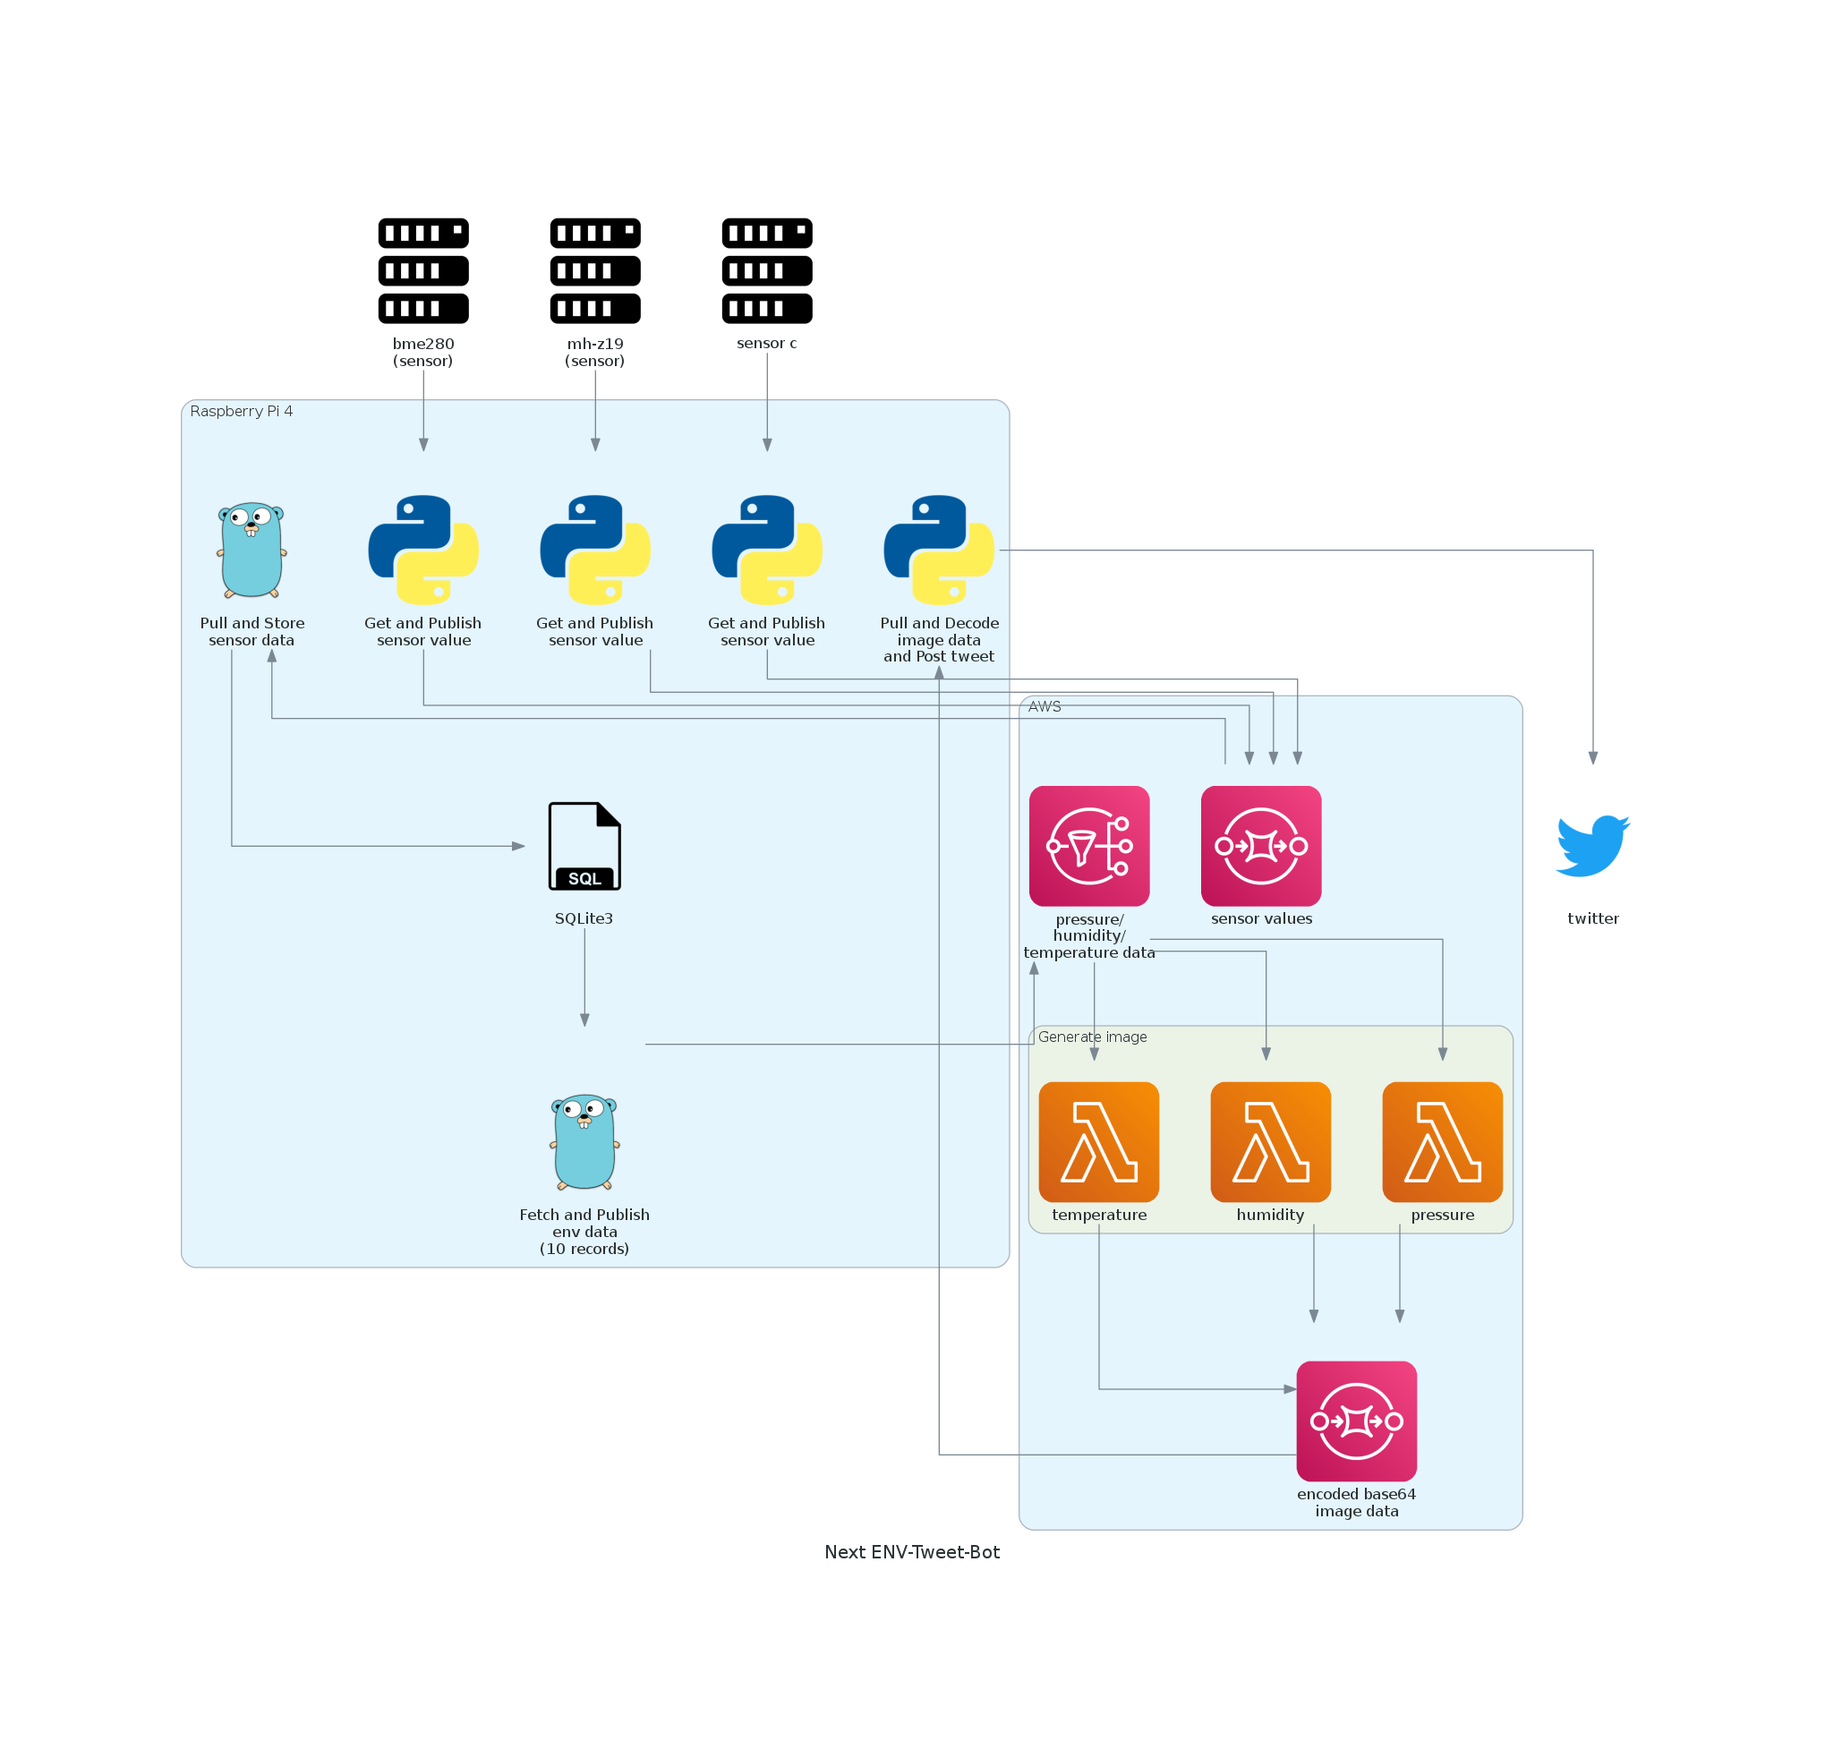
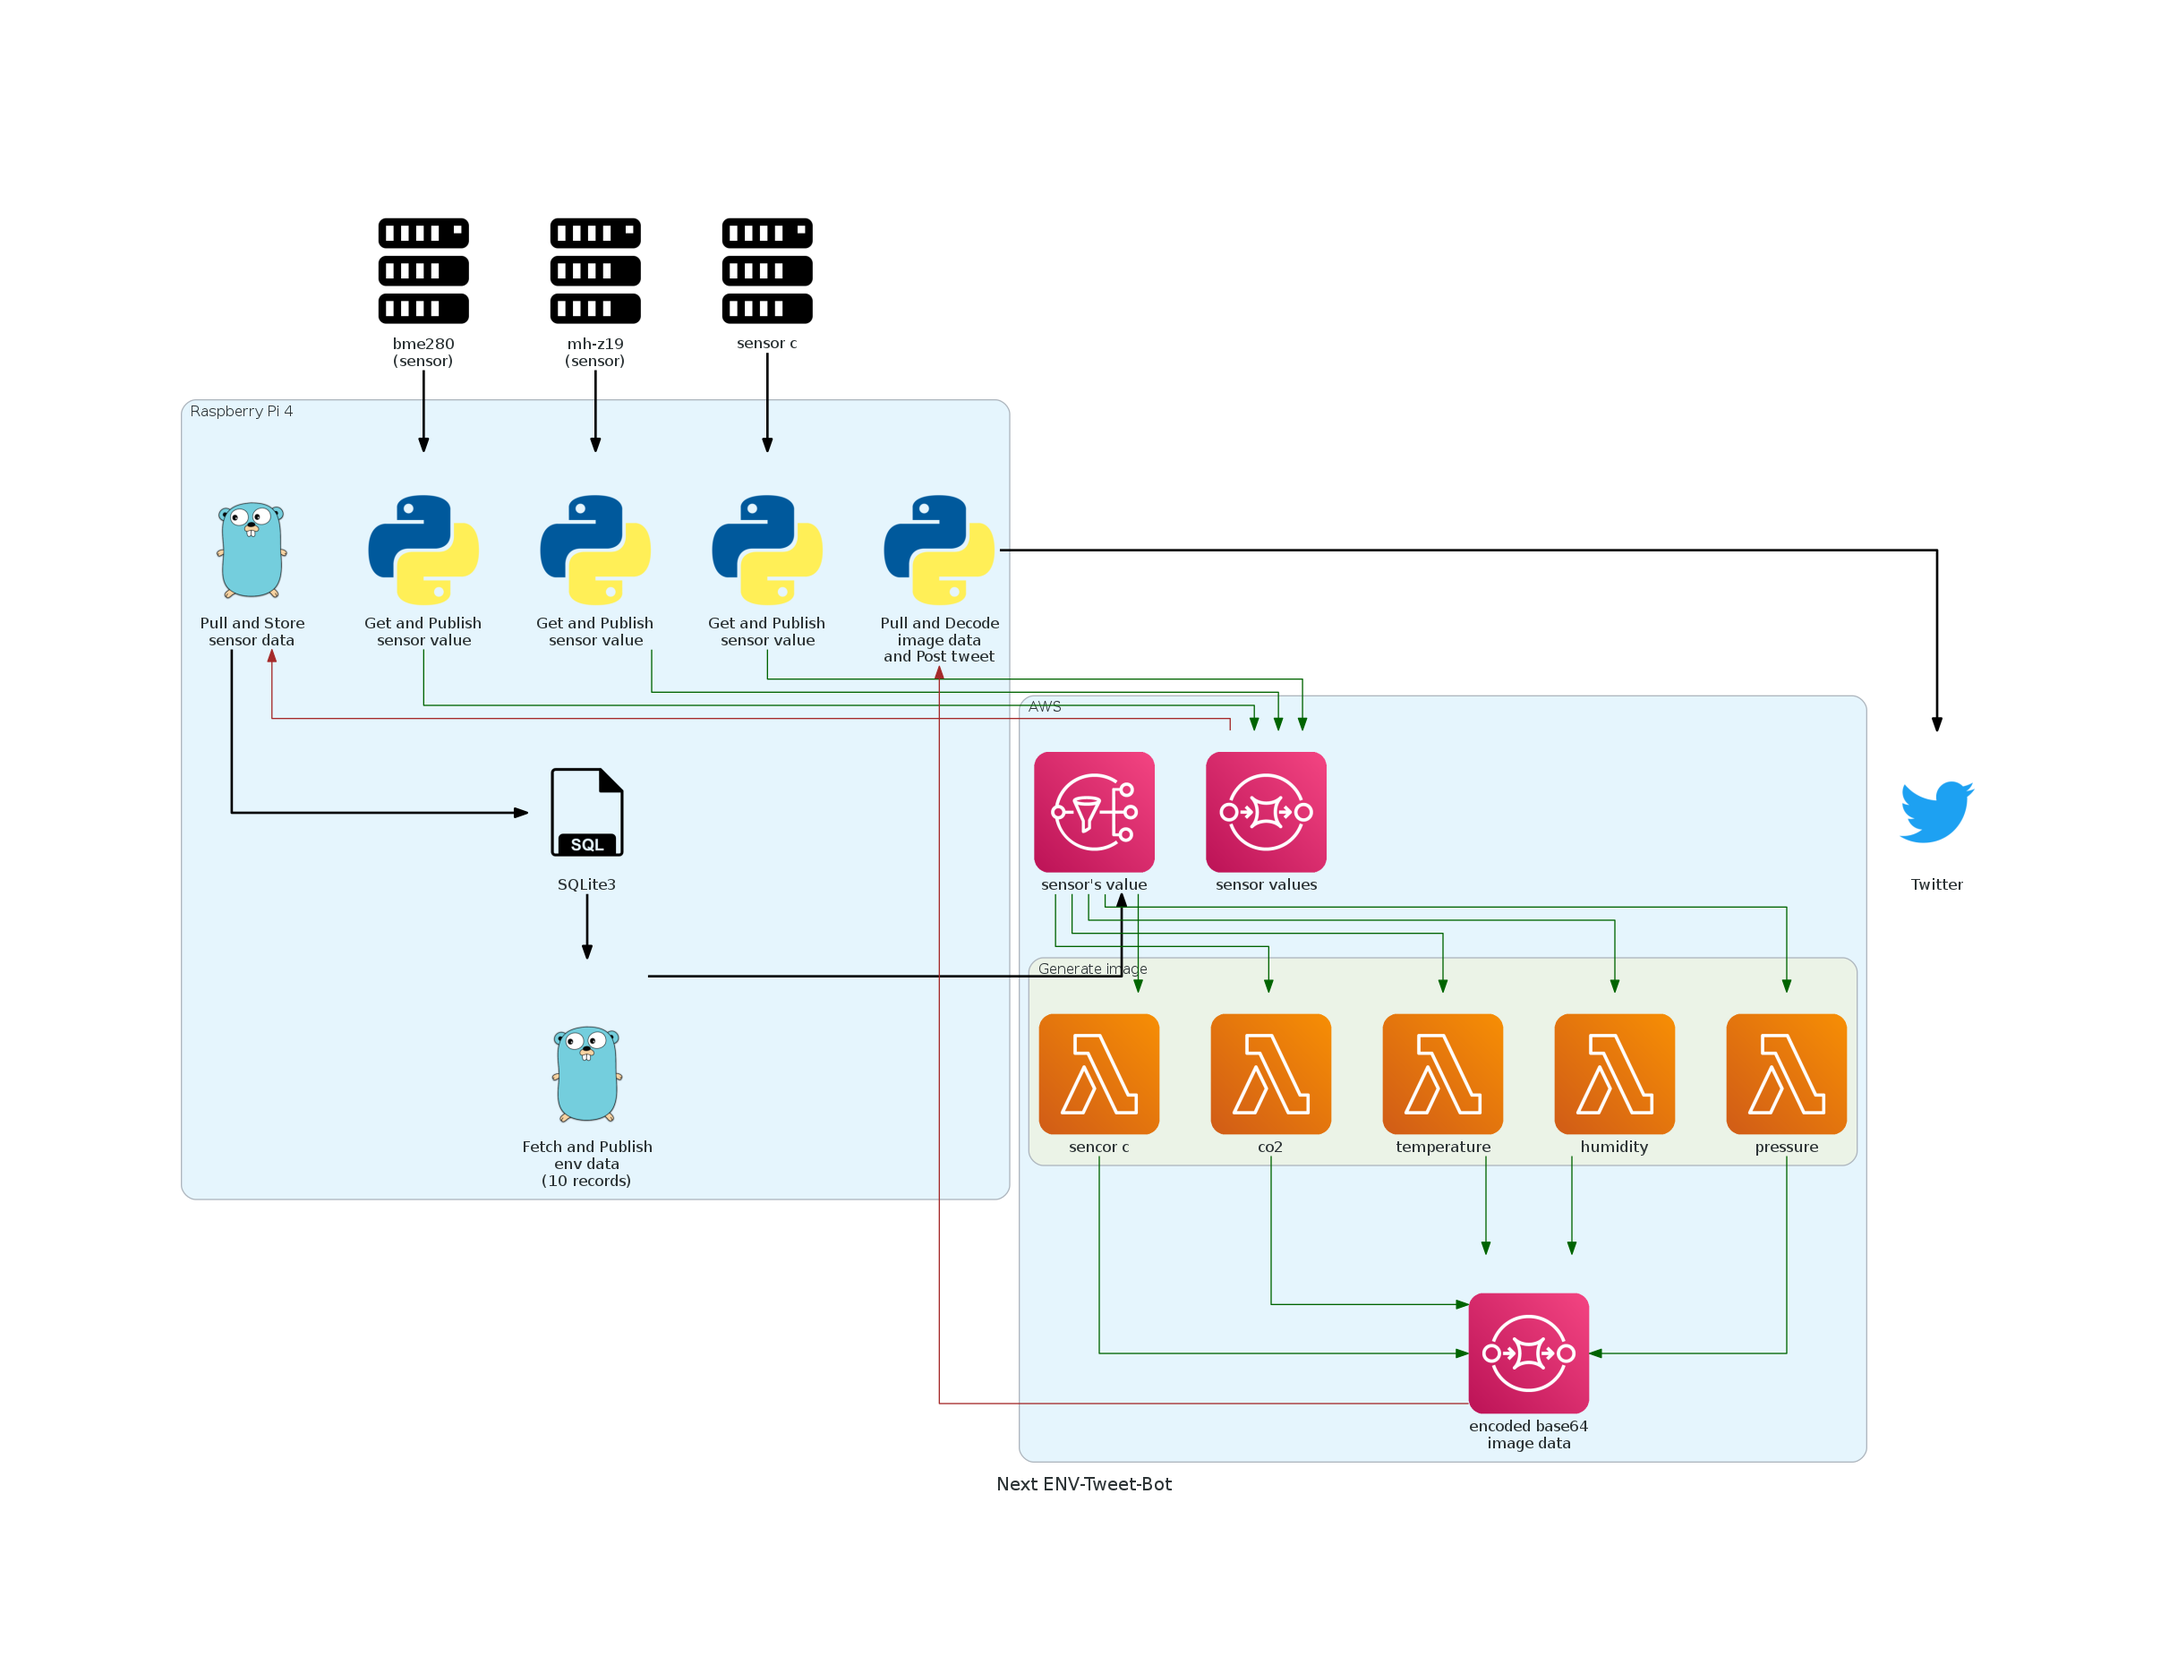
update doc

Changed region(s): [[0.0618, 0.1241, 0.9269, 0.8999], [0.2472, 0.4655, 0.3399, 0.5586], [0.8651, 0.3103, 0.896, 0.3414]]

diff --git a/env-bot/doc/diagram_next.py b/env-bot/doc/diagram_next.py
@@ -1,4 +1,4 @@
-from diagrams import Cluster, Diagram
+from diagrams import Cluster, Diagram, Edge
 
 from diagrams.programming.language import Python, Go
 from diagrams.onprem.compute import Server
@@ -11,7 +11,11 @@ with Diagram("Next ENV-Tweet-Bot", direction="TB", show=False, outformat="png"):
   bme280 = Server("bme280\n(sensor)")
   mh_z19 = Server("mh-z19\n(sensor)")
   sensor_c = Server("sensor c")
-  
+
+  green_edge = Edge(color="darkgreen")
+  brown_edge = Edge(color="brown")
+  black_edge = Edge(color="black", style="bold")
+
   with Cluster("Raspberry Pi 4"):
     prog_a = Python("Get and Publish\nsensor value")
     prog_b = Python("Get and Publish\nsensor value")
@@ -23,22 +27,24 @@ with Diagram("Next ENV-Tweet-Bot", direction="TB", show=False, outformat="png"):
 
   with Cluster("AWS"):
     sqs0 = SQS("sensor values")
-    sns = SNS("pressure/\nhumidity/\ntemperature data")
+    sns = SNS("sensor values")
 
     with Cluster("Generate image"):
       svc_group = [Lambda("pressure"),
                   Lambda("humidity"),
-                  Lambda("temperature")]
+                  Lambda("temperature"),
+                  Lambda("co2"),
+                  Lambda("sencor c")]
 
     sqs1 = SQS("encoded base64\nimage data")
 
-  twitter = Twitter("twitter")
+  twitter = Twitter("Twitter")
 
-  mh_z19 >> prog_a >> sqs0
-  bme280 >> prog_b >> sqs0
-  sensor_c >> prog_c >> sqs0
-  sqs0 >> prog1
-  prog1 >> db >> prog2
-  prog2 >> sns >> svc_group
-  svc_group >> sqs1 >> prog3
-  prog3 >> twitter
+  mh_z19 >> black_edge >> prog_a >> green_edge >> sqs0
+  bme280 >> black_edge >> prog_b >> green_edge >> sqs0
+  sensor_c >> black_edge >> prog_c >> green_edge >> sqs0
+  sqs0 >> brown_edge >> prog1
+  prog1 >> black_edge >> db >> black_edge >> prog2
+  prog2 >> black_edge >> sns >> green_edge >> svc_group
+  svc_group >> green_edge >> sqs1 >> brown_edge >> prog3
+  prog3 >> black_edge >> twitter

diff --git a/env-bot/doc/diagram.py b/env-bot/doc/diagram.py
@@ -1,4 +1,4 @@
-from diagrams import Cluster, Diagram
+from diagrams import Cluster, Diagram, Edge
 
 from diagrams.programming.language import Python, Go
 from diagrams.onprem.compute import Server
@@ -9,7 +9,11 @@ from diagrams.saas.social import Twitter
 
 with Diagram("ENV-Tweet-Bot", show=False, outformat="png"):
   bme280 = Server("bme280\n(sensor)")
-  
+
+  green_edge = Edge(color="darkgreen")
+  brown_edge = Edge(color="brown")
+  black_edge = Edge(color="black", style="bold")
+
   with Cluster("Raspberry Pi 4"):
     prog1 = Python("Get and Store\nsensor value")
     db = SQL("SQLite3")
@@ -26,9 +30,9 @@ with Diagram("ENV-Tweet-Bot", show=False, outformat="png"):
 
     sqs = SQS("encoded base64\nimage data")
 
-  twitter = Twitter("twitter")
+  twitter = Twitter("Twitter")
 
-  bme280 >> prog1 >> db >> prog2
-  prog2 >> sns >> svc_group
-  svc_group >> sqs >> prog3
-  prog3 >> twitter
+  bme280 >> black_edge >> prog1 >> black_edge >> black_edge >> db >> black_edge >> prog2 >> black_edge >> sns
+  sns >> green_edge >> svc_group
+  svc_group >> green_edge >> sqs >> brown_edge >> prog3
+  prog3 >> black_edge >> twitter

diff --git a/README.md b/README.md
@@ -13,6 +13,7 @@
 ![](env-bot/doc/env-tweet-bot.png)
 
 - [Old Architecture](env-bot/doc/old_dataflow.svg)
+  - [repository](https://github.com/ddddddO/sensor-pi/tree/f7eba6c14cdeaad8d3a23a1c6be6b905672c27de/env-bot)
 - [Next Architecture](env-bot/doc/next_env-tweet-bot.png)
 
 ### 実行基盤
